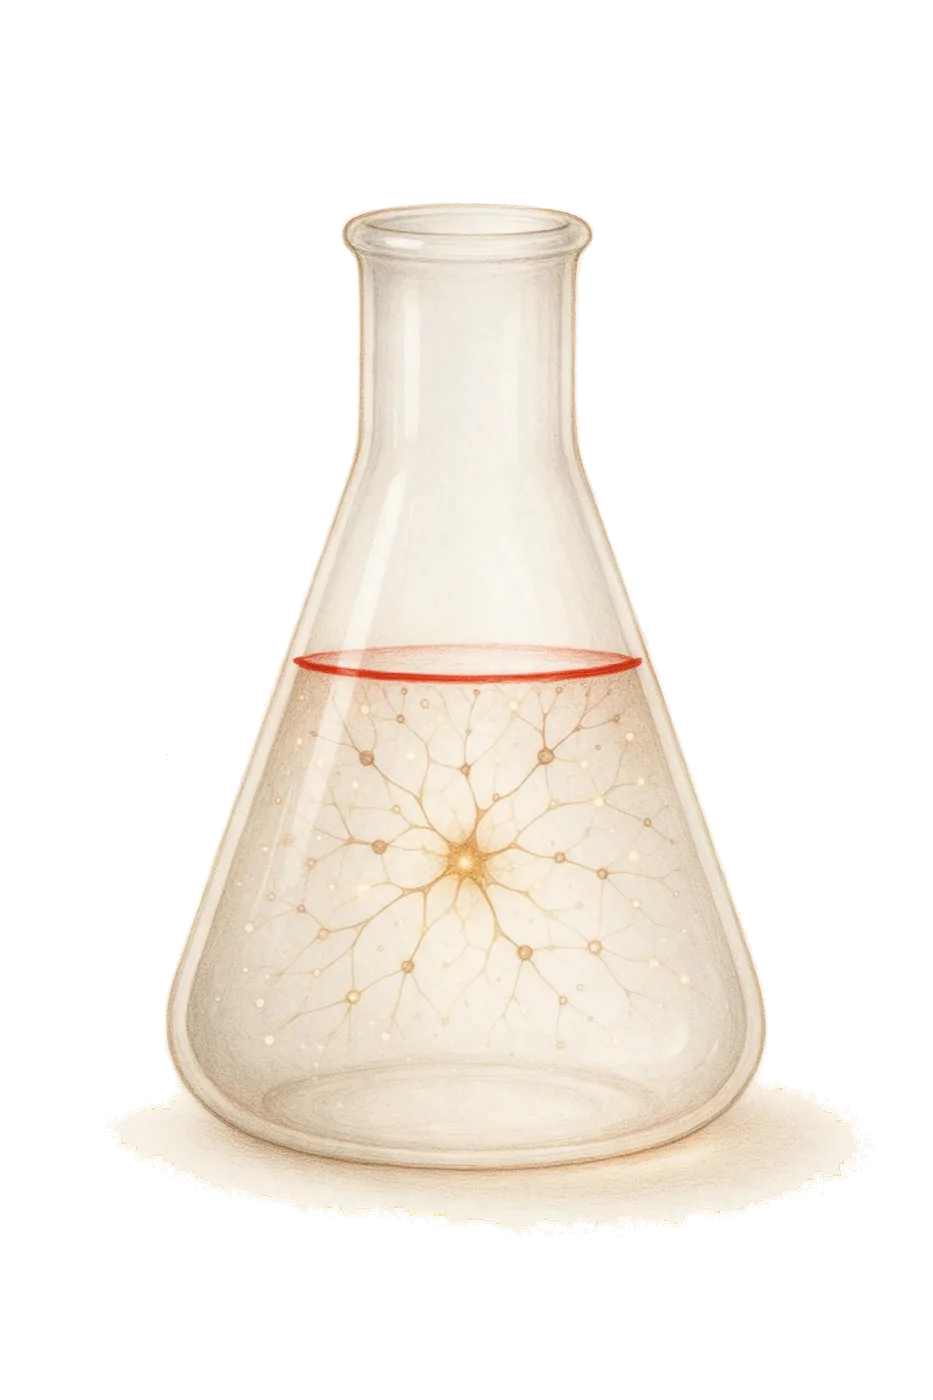
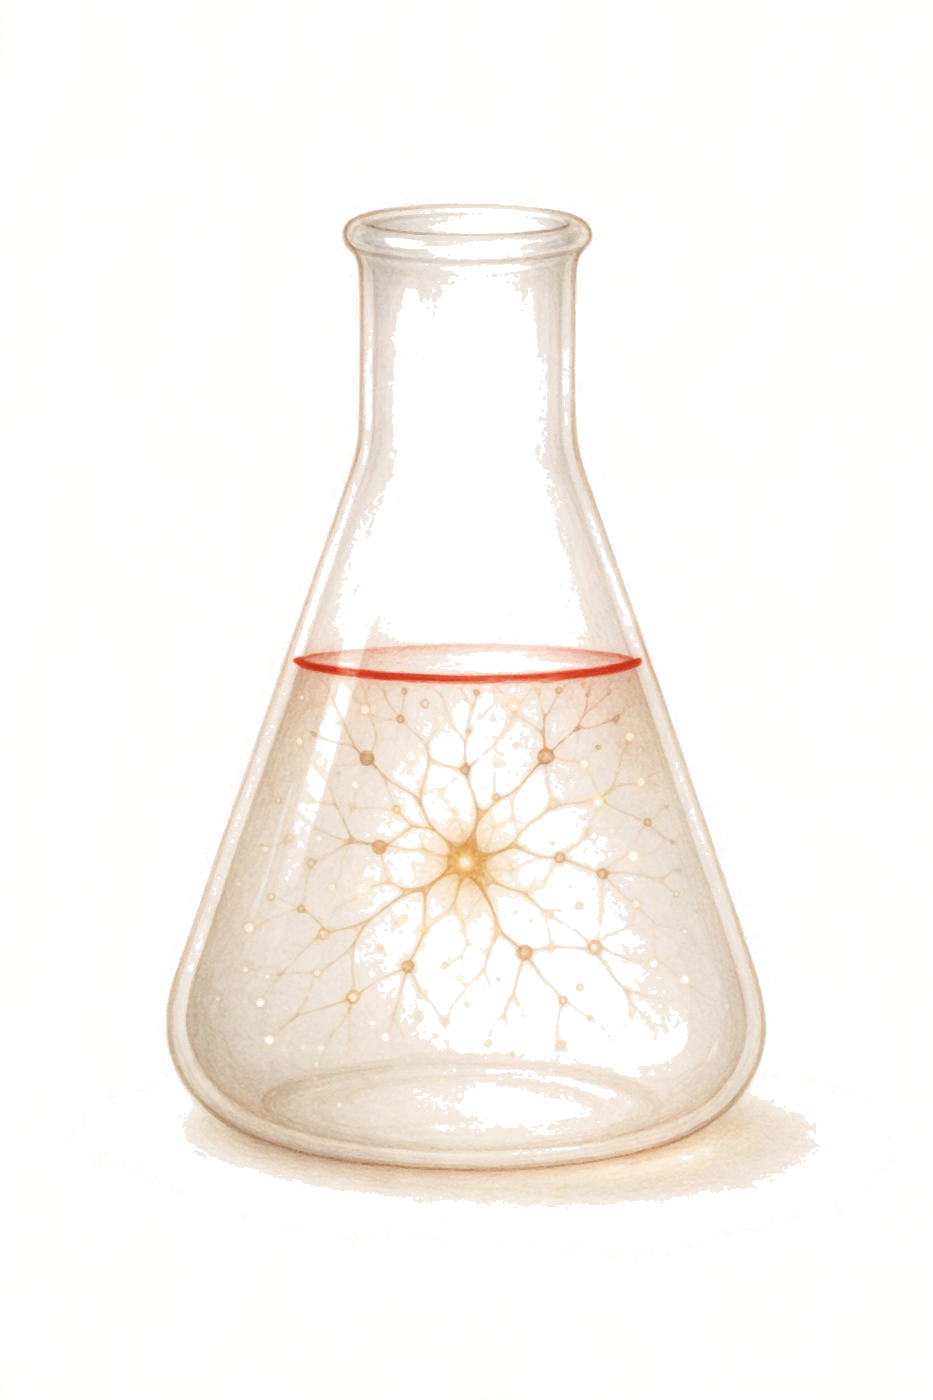
fix(illustrations): PS-style color-to-alpha knockout + dark-mode glow
- 7 张插图重做：白底转透明（color-to-alpha），阴影不再带走白纸残底
  深色卡上阴影区亮度 0.73 → 0.13；米色底逐像素还原 Δ≈1.5/255（浅色零回归）
  面板体积 551KB → 1.8MB（alpha 通道代价，quality 84）
- 深色模式：brightness(0.92) sepia(.12) → brightness(1.55) saturate(1.06) sepia(.06)
  只作用于插图三处（hero-fig / cell .pic / page-fig），不碰文章正文照片
- 年轮落位：大年轮右上 → 左上；rings 页隐藏左上角年轮
  两个年轮对角分布，不再挤同侧（body[data-motif] 由 BaseLayout 输出）

diff --git a/src/styles/global.css b/src/styles/global.css
@@ -474,7 +474,7 @@ a.brand-name:hover { color: var(--accent); }
 }
 .bg-decor .decor-stage { position: absolute; opacity: var(--decor-op, 0.2); }
 /* 各纹样的落位与尺度（大面积留白处，压低存在感） */
-.bg-decor[data-motif="rings"]  .decor-stage { width: 92vmin; height: 92vmin; top: -18vmin; right: -22vmin; }
+.bg-decor[data-motif="rings"]  .decor-stage { width: 92vmin; height: 92vmin; top: -18vmin; right: auto; left: -22vmin; }
 .bg-decor[data-motif="nodes"]  .decor-stage { width: 84vmin; height: 84vmin; top: 4vmin; left: -24vmin; }
 .bg-decor[data-motif="wave"]   .decor-stage { width: 100vw; height: 26vmin; left: 0; bottom: 6vmin; }
 .bg-decor[data-motif="specks"] .decor-stage { inset: 0; }
@@ -487,6 +487,8 @@ a.brand-name:hover { color: var(--accent); }
 }
 .corner-decor.corner-tl { left: -70px; top: -70px; }
 .corner-decor.corner-br { right: -70px; bottom: -70px; }
+/* 年轮页：大年轮落左上、角落年轮只留右下 → 两个年轮对角分布，不再挤同侧 */
+body[data-motif="rings"] .corner-decor.corner-tl { display: none; }
 @media (max-width: 860px) {
   .corner-decor { display: none; }
   .bg-decor { opacity: 0.6; }
@@ -502,5 +504,9 @@ a.brand-name:hover { color: var(--accent); }
     --line: #35301f; --line-strong: #4a4433; --accent: #d96a52;
     --accent-tint: rgba(217, 106, 82, 0.1); --card: #1e1a13;
   }
-  .cell .pic img, .hero-fig img { filter: brightness(0.92) sepia(0.12); }
+  /* 插图已抠为透明底（PS 式白底转透明）：深色卡上不再有白纸残底。
+     此处只做"轻微提亮 + 一点暖调"，让浅笔触在深色下仍可辨，且不产生刺眼白块。 */
+  .cell .pic img, .hero-fig img, .page-fig img {
+    filter: brightness(1.55) saturate(1.06) sepia(0.06);
+  }
 }
